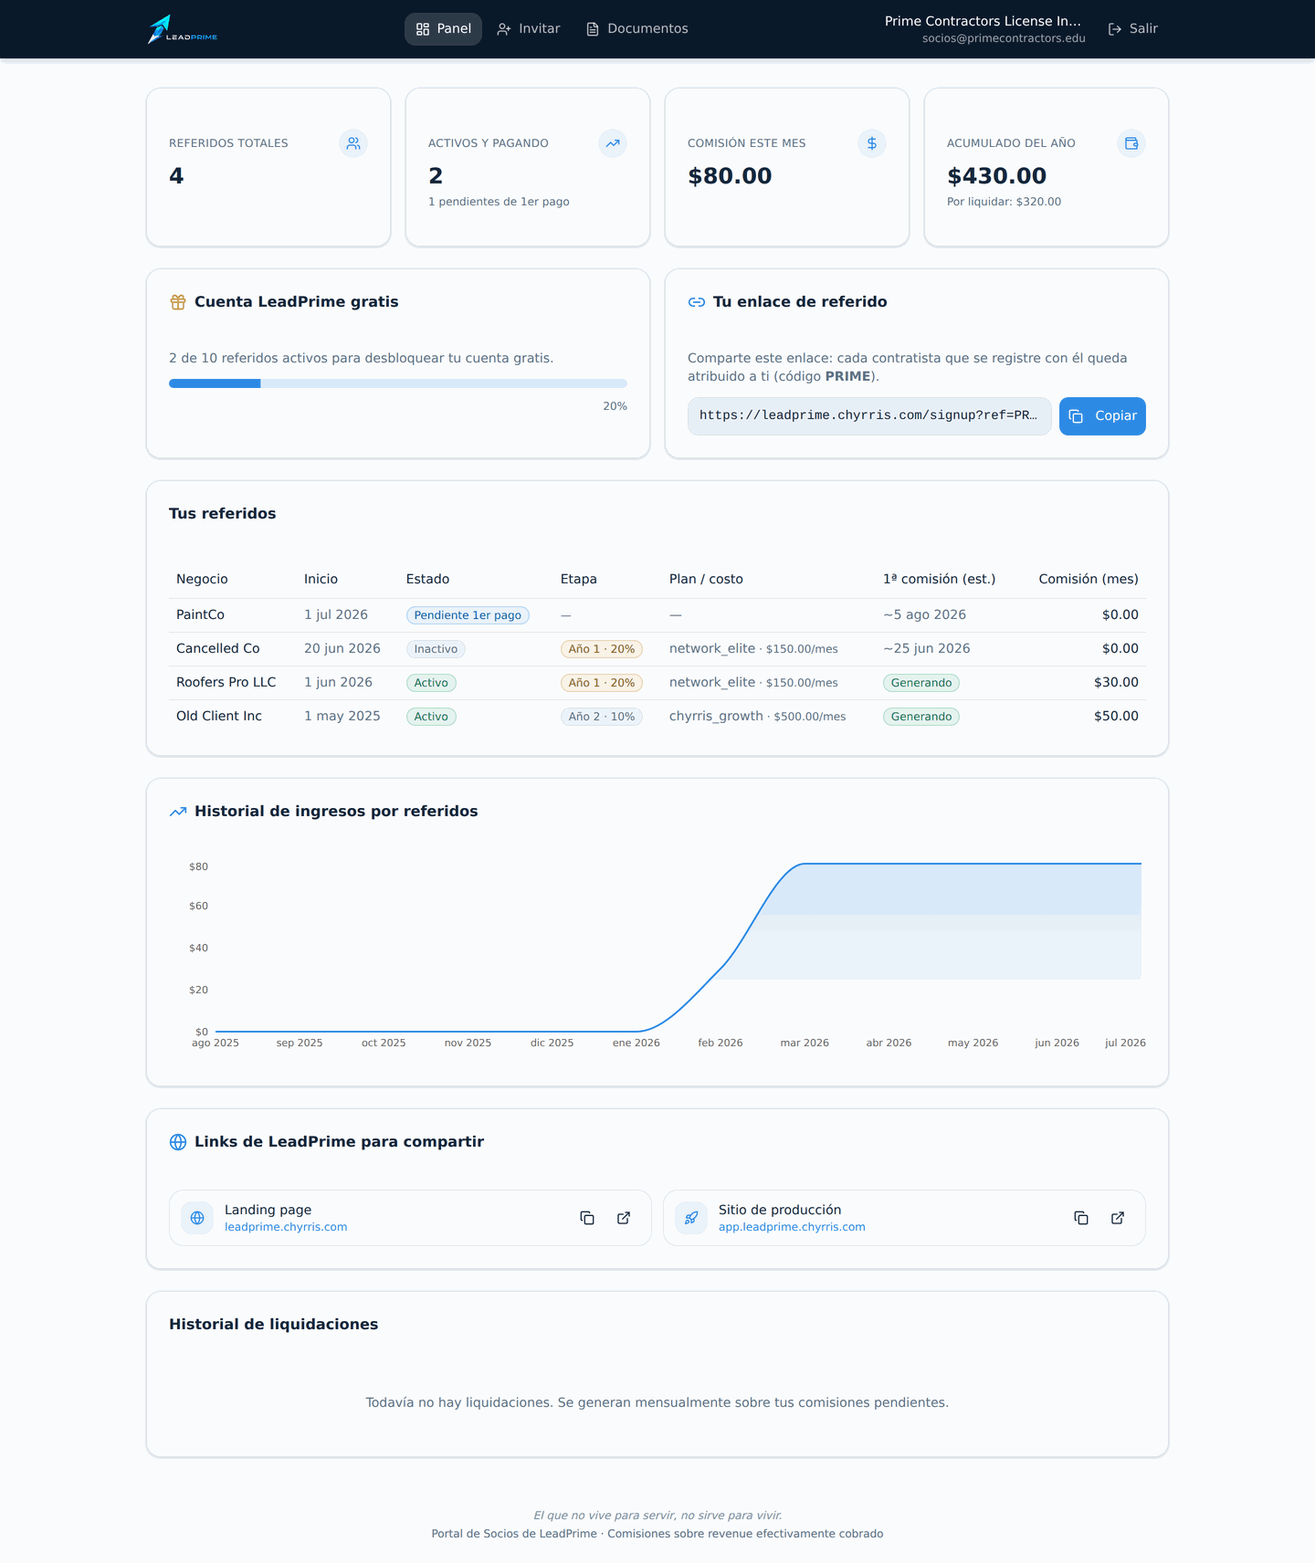
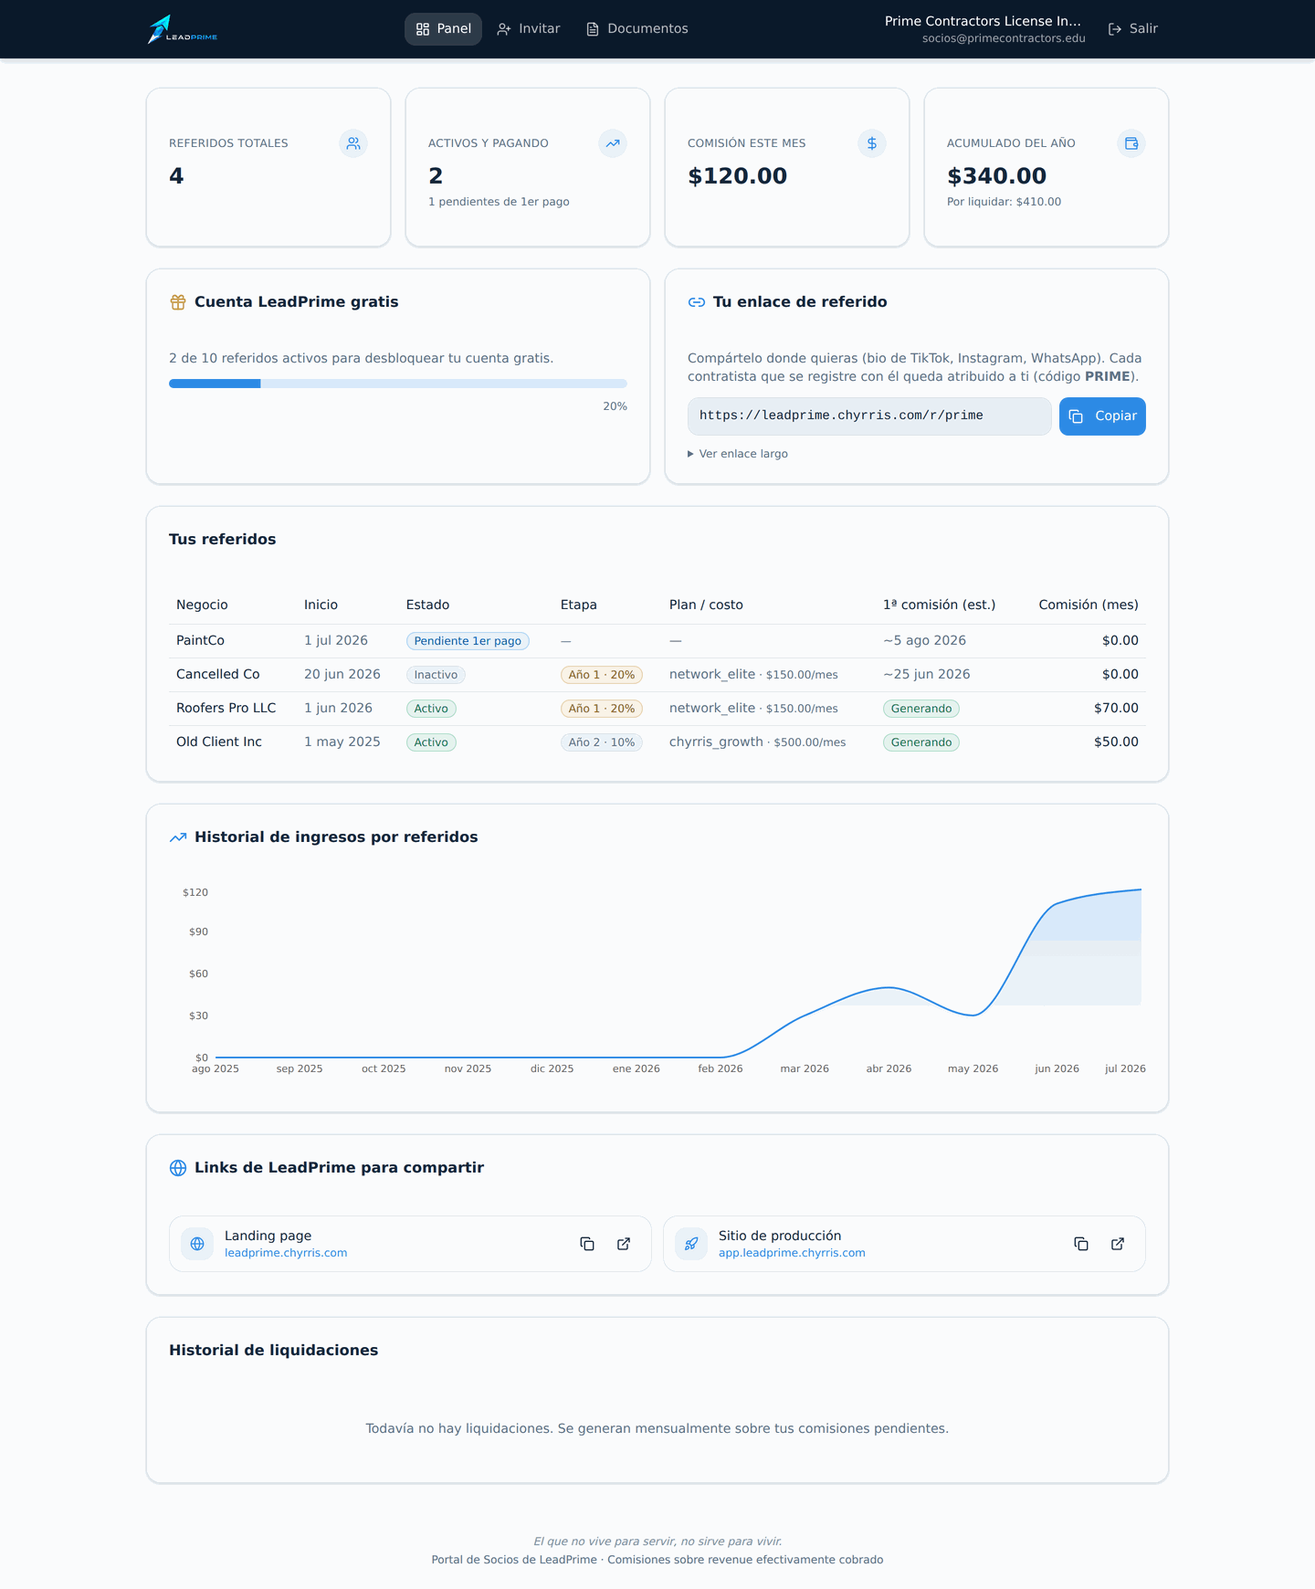
fix(partners): review fixes + links cortos de referido
Correcciones del review adversarial (2 hallazgos reales, verificados):
- HIGH: ensure-tables corría ADD COLUMN antes de CREATE TABLE → en una DB
  vacía (path real de deploy, pnpm start no corre migraciones) abortaba el
  bootstrap y no creaba NINGUNA tabla del portal. Reordenado CREATE TABLE
  antes de ADD COLUMN. Verificado con DB fresca: 9 tablas + columnas creadas.
- MEDIUM: getPortalSettings ignoraba el default de PARTNER_INVITATION_MODE por
  env → el modo 'approval' se degradaba a 'auto' sin fila en app_settings.
  Fallback al default por env.
- Low aplicados: /i/:token bloquea socios paused (como validate) y tiene
  rate-limit; escape de HTML en emails (partnerName/contactName).

Links cortos de referido (mejora sobre el sistema de atribución ya validado):
- buildShortReferralLink → leadprime.chyrris.com/r/CODE (minúsculas). No
  cambia el motor: /r/CODE es solo la puerta bonita que redirige a ?ref=CODE;
  atribución idéntica (case-insensitive).
- El portal muestra el link corto como principal (copiar), el largo plegado.
  Base configurable desde admin (app_settings) con default.
- El redirect /r/CODE vive en el repo de LeadPrime, NO en Kai — spec de
  hand-off en docs/partner-portal/LEADPRIME_REPO_CHANGES.md (agrupado con la
  captura de ?ref=, revisión de Gelasio antes de prod, sin romper el signup).

Validado: tsc limpio, 18 unit tests, E2E mejoras 21/21 y base 46/46 sin
regresión, fresh-DB bootstrap OK. Screenshots actualizados.
[…]

diff --git a/server/partner/partner-emails.ts b/server/partner/partner-emails.ts
@@ -15,6 +15,16 @@ const BRAND = {
   bg: "#F4F7F9",
 };
 
+/** Escape values interpolated into email HTML (defense in depth). */
+function esc(value: string | null | undefined): string {
+  return String(value ?? "")
+    .replace(/&/g, "&amp;")
+    .replace(/</g, "&lt;")
+    .replace(/>/g, "&gt;")
+    .replace(/"/g, "&quot;")
+    .replace(/'/g, "&#39;");
+}
+
 function getFrom(): string {
   return process.env.PARTNER_EMAIL_FROM || "LeadPrime <no-reply@chyrris.com>";
 }
@@ -97,11 +107,11 @@ export async function sendPartnerInvitationEmail(
   }
   try {
     const portalUrl = getPortalUrl();
-    const greeting = contactName ? `Hola ${contactName},` : "Hola,";
+    const greeting = contactName ? `Hola ${esc(contactName)},` : "Hola,";
     const html = layout(
       "Bienvenido al programa de socios de LeadPrime",
       `<p style="color:#3d4a58;font-size:14px;line-height:1.6;">${greeting}</p>
-       <p style="color:#3d4a58;font-size:14px;line-height:1.6;"><strong>${partnerName}</strong> ya forma parte del programa de socios de LeadPrime. Desde tu portal podrás completar tu registro (contrato, W-9 y depósito ACH), obtener tu enlace de referido y seguir tus referidos y comisiones en tiempo real.</p>
+       <p style="color:#3d4a58;font-size:14px;line-height:1.6;"><strong>${esc(partnerName)}</strong> ya forma parte del programa de socios de LeadPrime. Desde tu portal podrás completar tu registro (contrato, W-9 y depósito ACH), obtener tu enlace de referido y seguir tus referidos y comisiones en tiempo real.</p>
        <div style="text-align:center;margin:28px 0;">
          <a href="${portalUrl}" style="display:inline-block;background:${BRAND.blue};color:#ffffff;text-decoration:none;font-size:15px;font-weight:bold;padding:14px 32px;border-radius:10px;">Activar mi acceso</a>
        </div>
@@ -141,7 +151,7 @@ export async function sendReferralInvitationEmail(
   try {
     const html = layout(
       "Te invitaron a LeadPrime",
-      `<p style="color:#3d4a58;font-size:14px;line-height:1.6;"><strong>${partnerName}</strong> te invita a unirte a <strong>LeadPrime</strong>, la plataforma que ayuda a los contratistas a conseguir y gestionar más trabajo.</p>
+      `<p style="color:#3d4a58;font-size:14px;line-height:1.6;"><strong>${esc(partnerName)}</strong> te invita a unirte a <strong>LeadPrime</strong>, la plataforma que ayuda a los contratistas a conseguir y gestionar más trabajo.</p>
        <p style="color:#3d4a58;font-size:14px;line-height:1.6;">Crea tu cuenta con este enlace personalizado. Al registrarte, tu cuenta queda vinculada a quien te invitó.</p>
        <div style="text-align:center;margin:28px 0;">
          <a href="${signupLink}" style="display:inline-block;background:${BRAND.blue};color:#ffffff;text-decoration:none;font-size:15px;font-weight:bold;padding:14px 32px;border-radius:10px;">Crear mi cuenta en LeadPrime</a>
@@ -151,7 +161,7 @@ export async function sendReferralInvitationEmail(
     const result = await resend.emails.send({
       from: getFrom(),
       to,
-      subject: `${partnerName} te invitó a LeadPrime`,
+      subject: `${partnerName} te invitó a LeadPrime`.replace(/[\r\n]/g, " "),
       html,
     });
     if (result.error) {

diff --git a/client/src/pages/LeadPrimePartners.tsx b/client/src/pages/LeadPrimePartners.tsx
@@ -249,6 +249,7 @@ function PortalSettingsDialog({ open, onOpenChange }: { open: boolean; onOpenCha
   });
   const [landing, setLanding] = useState("");
   const [production, setProduction] = useState("");
+  const [shortBase, setShortBase] = useState("");
   const [mode, setMode] = useState<"auto" | "approval">("auto");
 
   // Seed the form once settings load.
@@ -258,6 +259,7 @@ function PortalSettingsDialog({ open, onOpenChange }: { open: boolean; onOpenCha
     seededRef.current = true;
     setLanding(loaded.leadprimeLandingUrl);
     setProduction(loaded.leadprimeProductionUrl);
+    setShortBase(loaded.shortLinkBase);
     setMode(loaded.invitationMode);
   }
 
@@ -283,6 +285,13 @@ function PortalSettingsDialog({ open, onOpenChange }: { open: boolean; onOpenCha
               <Input value={production} onChange={e => setProduction(e.target.value)} placeholder="https://app.leadprime.chyrris.com" />
             </div>
             <div className="space-y-1">
+              <label className="text-sm font-medium">Base del link corto de referido</label>
+              <Input value={shortBase} onChange={e => setShortBase(e.target.value)} placeholder="https://leadprime.chyrris.com" />
+              <p className="text-xs text-muted-foreground">
+                Se muestra como leadprime.chyrris.com/r/CODIGO. El redirect /r/CODE vive en el repo de LeadPrime.
+              </p>
+            </div>
+            <div className="space-y-1">
               <label className="text-sm font-medium">Modo de invitaciones</label>
               <select
                 value={mode}
@@ -300,6 +309,7 @@ function PortalSettingsDialog({ open, onOpenChange }: { open: boolean; onOpenCha
                   update.mutate({
                     leadprimeLandingUrl: landing.trim(),
                     leadprimeProductionUrl: production.trim(),
+                    shortLinkBase: shortBase.trim(),
                     invitationMode: mode,
                   })
                 }
@@ -542,11 +552,11 @@ function PartnerDetailDialog({ partnerId, onClose }: { partnerId: number; onClos
                 variant="outline"
                 onClick={() =>
                   navigator.clipboard
-                    .writeText(`https://leadprime.chyrris.com/signup?ref=${partner.referralCode}`)
-                    .then(() => toast.success("Enlace de referido copiado"))
+                    .writeText(`https://leadprime.chyrris.com/r/${partner.referralCode.toLowerCase()}`)
+                    .then(() => toast.success("Link corto de referido copiado"))
                 }
               >
-                <Copy className="w-4 h-4 mr-1" /> Enlace
+                <Copy className="w-4 h-4 mr-1" /> Link corto
               </Button>
               <Button size="sm" variant="outline" onClick={() => resendInvite.mutate({ partnerId })} disabled={resendInvite.isPending}>
                 <Mail className="w-4 h-4 mr-1" /> Reenviar invitación

diff --git a/client/src/partner/pages/PartnerDashboard.tsx b/client/src/partner/pages/PartnerDashboard.tsx
@@ -173,9 +173,9 @@ function DashboardContent() {
     );
   }
 
-  const copyLink = async () => {
+  const copyLink = async (link: string) => {
     try {
-      await navigator.clipboard.writeText(data.referralLink);
+      await navigator.clipboard.writeText(link);
       toast.success("Enlace copiado");
     } catch {
       toast.error("No se pudo copiar. Selecciona el texto manualmente.");
@@ -240,18 +240,31 @@ function DashboardContent() {
           </CardHeader>
           <CardContent className="space-y-3">
             <p className="text-sm text-muted-foreground">
-              Comparte este enlace: cada contratista que se registre con él queda atribuido a ti
-              (código <strong>{data.referralCode}</strong>).
+              Compártelo donde quieras (bio de TikTok, Instagram, WhatsApp). Cada contratista que se
+              registre con él queda atribuido a ti (código <strong>{data.referralCode}</strong>).
             </p>
+            {/* Short link = primary (pretty, for social bios) */}
             <div className="flex gap-2">
-              <code className="flex-1 min-w-0 truncate text-xs sm:text-sm bg-muted rounded-lg px-3 py-2.5 border">
-                {data.referralLink}
+              <code className="flex-1 min-w-0 truncate text-sm bg-muted rounded-lg px-3 py-2.5 border font-medium">
+                {data.shortReferralLink}
               </code>
-              <Button onClick={copyLink} size="sm" className="shrink-0 h-auto">
+              <Button onClick={() => copyLink(data.shortReferralLink)} size="sm" className="shrink-0 h-auto">
                 <Copy className="w-4 h-4 sm:mr-2" />
                 <span className="hidden sm:inline">Copiar</span>
               </Button>
             </div>
+            {/* Long form kept as a fallback */}
+            <details className="text-xs text-muted-foreground">
+              <summary className="cursor-pointer hover:text-foreground">Ver enlace largo</summary>
+              <div className="flex gap-2 mt-2">
+                <code className="flex-1 min-w-0 truncate bg-muted rounded-lg px-3 py-2 border">
+                  {data.referralLink}
+                </code>
+                <Button onClick={() => copyLink(data.referralLink)} size="sm" variant="outline" className="shrink-0 h-auto">
+                  <Copy className="w-4 h-4" />
+                </Button>
+              </div>
+            </details>
           </CardContent>
         </Card>
       </div>

diff --git a/server/partner/app-settings.ts b/server/partner/app-settings.ts
@@ -13,18 +13,24 @@ export const SETTING_KEYS = {
   leadprimeLandingUrl: "leadprime_landing_url",
   leadprimeProductionUrl: "leadprime_production_url",
   invitationMode: "invitation_mode", // 'auto' | 'approval'
+  // Base for the pretty short referral links (leadprime.chyrris.com/r/CODE).
+  // The /r/CODE redirect itself lives in the LeadPrime repo/app, not Kai — this
+  // is only the base Kai uses to DISPLAY the shareable link to the partner.
+  shortLinkBase: "leadprime_short_link_base",
 } as const;
 
 export type PortalSettings = {
   leadprimeLandingUrl: string;
   leadprimeProductionUrl: string;
   invitationMode: "auto" | "approval";
+  shortLinkBase: string;
 };
 
 const DEFAULTS: PortalSettings = {
   leadprimeLandingUrl: process.env.LEADPRIME_LANDING_URL || "https://leadprime.chyrris.com",
   leadprimeProductionUrl: process.env.LEADPRIME_PRODUCTION_URL || "https://app.leadprime.chyrris.com",
   invitationMode: (process.env.PARTNER_INVITATION_MODE as "auto" | "approval") || "auto",
+  shortLinkBase: process.env.REFERRAL_SHORT_LINK_BASE || "https://leadprime.chyrris.com",
 };
 
 export async function getPortalSettings(): Promise<PortalSettings> {
@@ -36,11 +42,15 @@ export async function getPortalSettings(): Promise<PortalSettings> {
       .from(appSettings)
       .where(inArray(appSettings.key, Object.values(SETTING_KEYS)));
     const map = new Map(rows.map(r => [r.key, r.value ?? ""]));
-    const mode = map.get(SETTING_KEYS.invitationMode);
+    // Fall back to the env-configured default when there's no DB row, so an
+    // admin who set PARTNER_INVITATION_MODE=approval (but never wrote the DB
+    // setting) still gets the approval gate — not a silent 'auto'.
+    const mode = map.get(SETTING_KEYS.invitationMode) || DEFAULTS.invitationMode;
     return {
       leadprimeLandingUrl: map.get(SETTING_KEYS.leadprimeLandingUrl) || DEFAULTS.leadprimeLandingUrl,
       leadprimeProductionUrl: map.get(SETTING_KEYS.leadprimeProductionUrl) || DEFAULTS.leadprimeProductionUrl,
       invitationMode: mode === "approval" ? "approval" : "auto",
+      shortLinkBase: map.get(SETTING_KEYS.shortLinkBase) || DEFAULTS.shortLinkBase,
     };
   } catch (error) {
     console.error("[App Settings] read failed:", error);

diff --git a/server/partner/partner-db.ts b/server/partner/partner-db.ts
@@ -18,7 +18,8 @@ import {
   type ReferralPartner,
 } from "../../drizzle/schema";
 import { storagePut, storageGet } from "../storage";
-import { buildReferralLink, fetchReferredUsersInfo, reversalKey } from "./commission-engine";
+import { buildReferralLink, buildShortReferralLink, fetchReferredUsersInfo, reversalKey } from "./commission-engine";
+import { getPortalSettings } from "./app-settings";
 
 // ── Onboarding journey — 3 unlockable stages (brief §1) ────────────────────
 // Stage 1 "materiales": partner reviewed the informational docs LeadPrime
@@ -267,6 +268,10 @@ export interface PartnerDashboard {
     threshold: number;
     achieved: boolean;
   };
+  // shortReferralLink is the PRIMARY link to share (pretty, for social bios);
+  // referralLink is the canonical ?ref= long form kept as fallback. Both
+  // attribute identically.
+  shortReferralLink: string;
   referralLink: string;
   referralCode: string;
 }
@@ -312,6 +317,7 @@ export async function getPartnerDashboard(partner: ReferralPartner): Promise<Par
     .from(referralCommissions)
     .where(and(eq(referralCommissions.partnerId, partner.id), eq(referralCommissions.payoutStatus, "pending")));
 
+  const settings = await getPortalSettings();
   const activeCount = counts[0]?.active ?? 0;
   return {
     kpis: {
@@ -328,6 +334,7 @@ export async function getPartnerDashboard(partner: ReferralPartner): Promise<Par
       threshold: partner.freeAccountThreshold,
       achieved: activeCount >= partner.freeAccountThreshold,
     },
+    shortReferralLink: buildShortReferralLink(partner.referralCode, settings.shortLinkBase),
     referralLink: buildReferralLink(partner.referralCode),
     referralCode: partner.referralCode,
   };

diff --git a/server/partner/commission-engine.ts b/server/partner/commission-engine.ts
@@ -102,7 +102,7 @@ function emptySummary(): SyncSummary {
   };
 }
 
-/** The public signup link shown to partners: <base>?ref=<CODE> */
+/** The canonical signup link (long form): <base>?ref=<CODE> */
 export function getReferralSignupBase(): string {
   return process.env.REFERRAL_SIGNUP_URL || "https://leadprime.chyrris.com/signup";
 }
@@ -111,6 +111,19 @@ export function buildReferralLink(referralCode: string): string {
   const base = getReferralSignupBase();
   const sep = base.includes("?") ? "&" : "?";
   return `${base}${sep}ref=${encodeURIComponent(referralCode)}`;
+}
+
+/**
+ * Pretty SHORT referral link for social bios (leadprime.chyrris.com/r/CODE).
+ * The /r/CODE redirect that turns this into ?ref=CODE lives in the LeadPrime
+ * app (its own domain/repo), NOT here — Kai only DISPLAYS this link. The code
+ * is lowercased for a clean look; attribution is case-insensitive, so
+ * /r/prime resolves the same partner as ?ref=PRIME. Base is admin-configurable
+ * (app_settings) with a default; pass it in when settings are available.
+ */
+export function buildShortReferralLink(referralCode: string, base?: string): string {
+  const b = (base || process.env.REFERRAL_SHORT_LINK_BASE || "https://leadprime.chyrris.com").replace(/\/+$/, "");
+  return `${b}/r/${encodeURIComponent(referralCode.toLowerCase())}`;
 }
 
 /** Validate a referral code → partner (case-insensitive), or null. */

diff --git a/server/partner/commission-engine.test.ts b/server/partner/commission-engine.test.ts
@@ -5,6 +5,7 @@
 import { describe, expect, it } from "vitest";
 import {
   buildReferralLink,
+  buildShortReferralLink,
   centsToDecimal,
   computeCommissionCents,
   resolveAppliedPct,
@@ -78,6 +79,22 @@ describe("referral link", () => {
 
   it("URL-encodes unusual codes", () => {
     expect(buildReferralLink("A B")).toContain("ref=A%20B");
+  });
+});
+
+describe("short referral link (social bios)", () => {
+  it("builds leadprime.chyrris.com/r/<code> lowercased", () => {
+    expect(buildShortReferralLink("PRIME")).toBe("https://leadprime.chyrris.com/r/prime");
+  });
+
+  it("uses the admin-configured base and trims trailing slashes", () => {
+    expect(buildShortReferralLink("PRIME", "https://lp.example.com/")).toBe("https://lp.example.com/r/prime");
+  });
+
+  it("attributes case-insensitively — short /r/prime resolves the same as ?ref=PRIME", () => {
+    // Both links carry the code; the engine's findPartnerByCode compares
+    // case-insensitively, so the lowercased short link resolves PRIME.
+    expect(buildShortReferralLink("prime")).toBe(buildShortReferralLink("PRIME"));
   });
 });
 

diff --git a/server/partner/ensure-tables.ts b/server/partner/ensure-tables.ts
@@ -169,10 +169,16 @@ export async function ensurePartnerTables(): Promise<void> {
         await db.execute(sql.raw(`ALTER TYPE "${name}" ADD VALUE IF NOT EXISTS '${value}'`));
       }
     }
-    for (const statement of ADDED_COLUMNS) {
+    // ORDER MATTERS: create tables BEFORE altering them. On a fresh database
+    // partner_documents / referral_partners do not exist yet, so running the
+    // ADD COLUMN statements first would throw and (via the outer catch) abort
+    // the whole bootstrap, leaving ZERO tables created. CREATE TABLE first, then
+    // the ADD COLUMN IF NOT EXISTS is a harmless no-op on fresh DBs and the
+    // actual upgrade path on existing ones.
+    for (const statement of TABLE_STATEMENTS) {
       await db.execute(sql.raw(statement));
     }
-    for (const statement of TABLE_STATEMENTS) {
+    for (const statement of ADDED_COLUMNS) {
       await db.execute(sql.raw(statement));
     }
     console.log("[Partner Tables] referral_* tables ensured (v2)");

diff --git a/server/partner/partner-router.ts b/server/partner/partner-router.ts
@@ -473,6 +473,7 @@ export const partnerAdminRouter = router({
       z.object({
         leadprimeLandingUrl: z.string().url().max(500).optional(),
         leadprimeProductionUrl: z.string().url().max(500).optional(),
+        shortLinkBase: z.string().url().max(500).optional(),
         invitationMode: z.enum(["auto", "approval"]).optional(),
       })
     )
@@ -481,6 +482,8 @@ export const partnerAdminRouter = router({
         await setSetting(SETTING_KEYS.leadprimeLandingUrl, input.leadprimeLandingUrl);
       if (input.leadprimeProductionUrl !== undefined)
         await setSetting(SETTING_KEYS.leadprimeProductionUrl, input.leadprimeProductionUrl);
+      if (input.shortLinkBase !== undefined)
+        await setSetting(SETTING_KEYS.shortLinkBase, input.shortLinkBase);
       if (input.invitationMode !== undefined)
         await setSetting(SETTING_KEYS.invitationMode, input.invitationMode);
       return { success: true, settings: await getPortalSettings() };

diff --git a/scripts/validate-partner-enhancements-e2e.ts b/scripts/validate-partner-enhancements-e2e.ts
@@ -187,6 +187,13 @@ async function main() {
     afterSync[0]!.status === "active" && (syncInvite.registered >= 1 || syncInvite.activated >= 1),
     `status=${afterSync[0]!.status}`);
 
+  // ── 5b. Short referral link (social bios) ──
+  const dash = await pdb.getPartnerDashboard(await aRow());
+  check("Link corto se genera del código (leadprime.chyrris.com/r/prime), atribuye igual que ?ref",
+    dash.shortReferralLink === "https://leadprime.chyrris.com/r/prime" &&
+    dash.referralLink === "https://leadprime.chyrris.com/signup?ref=PRIME",
+    `corto=${dash.shortReferralLink}`);
+
   // ── 6. Settings (links + approval mode) ──
   await settings.setSetting(settings.SETTING_KEYS.leadprimeLandingUrl, "https://leadprime.example.com");
   await settings.setSetting(settings.SETTING_KEYS.leadprimeProductionUrl, "https://app.leadprime.example.com");

diff --git a/server/partner/partner-invitations.ts b/server/partner/partner-invitations.ts
@@ -145,7 +145,9 @@ export async function resolveInvitationRedirect(token: string): Promise<string |
     .where(eq(partnerInvitations.token, token))
     .limit(1);
   const row = rows[0];
-  if (!row || row.status === "inactive") return null;
+  // Paused and inactive partners don't attribute — consistent with
+  // /api/referrals/validate. Fall back to the plain signup (caller handles null).
+  if (!row || row.status === "inactive" || row.status === "paused") return null;
   const { buildReferralLink } = await import("./commission-engine");
   return buildReferralLink(row.referralCode);
 }

diff --git a/server/partner/referral-routes.ts b/server/partner/referral-routes.ts
@@ -41,6 +41,7 @@ export function registerReferralRoutes(app: Express): void {
   // themselves (consent). Unknown/inactive tokens fall back to the plain
   // signup so the link never dead-ends.
   app.get("/i/:token", async (req: Request, res: Response) => {
+    if (rateLimited(req)) return res.status(429).send("Too many requests");
     try {
       const token = String(req.params.token ?? "").trim();
       const target =
